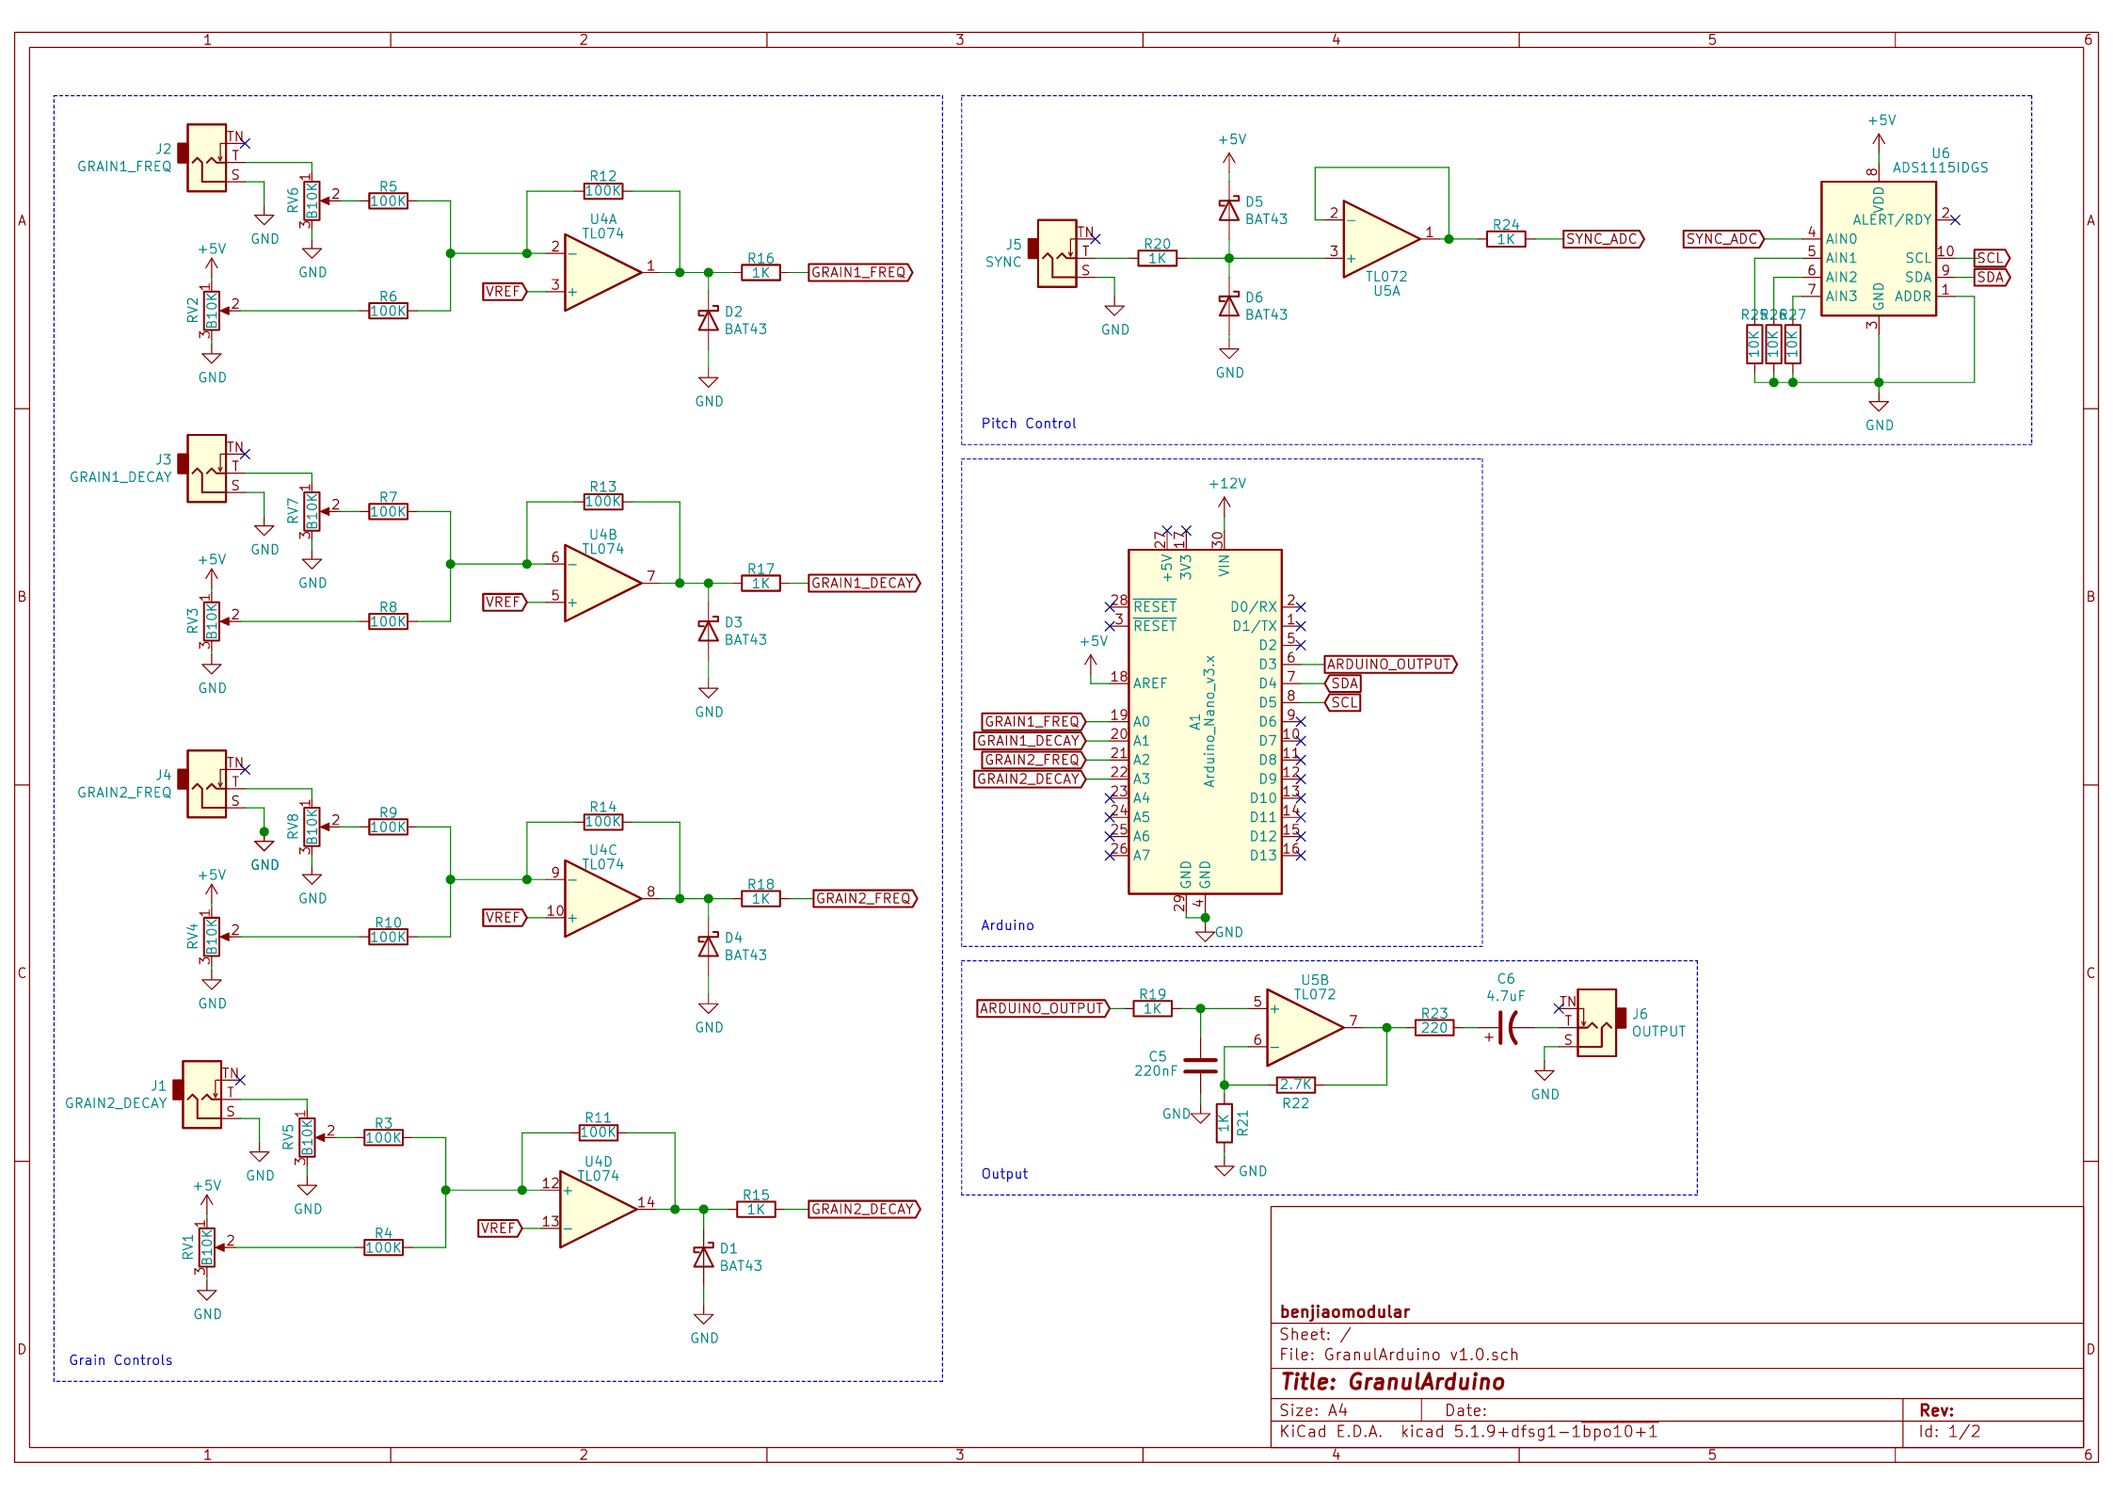
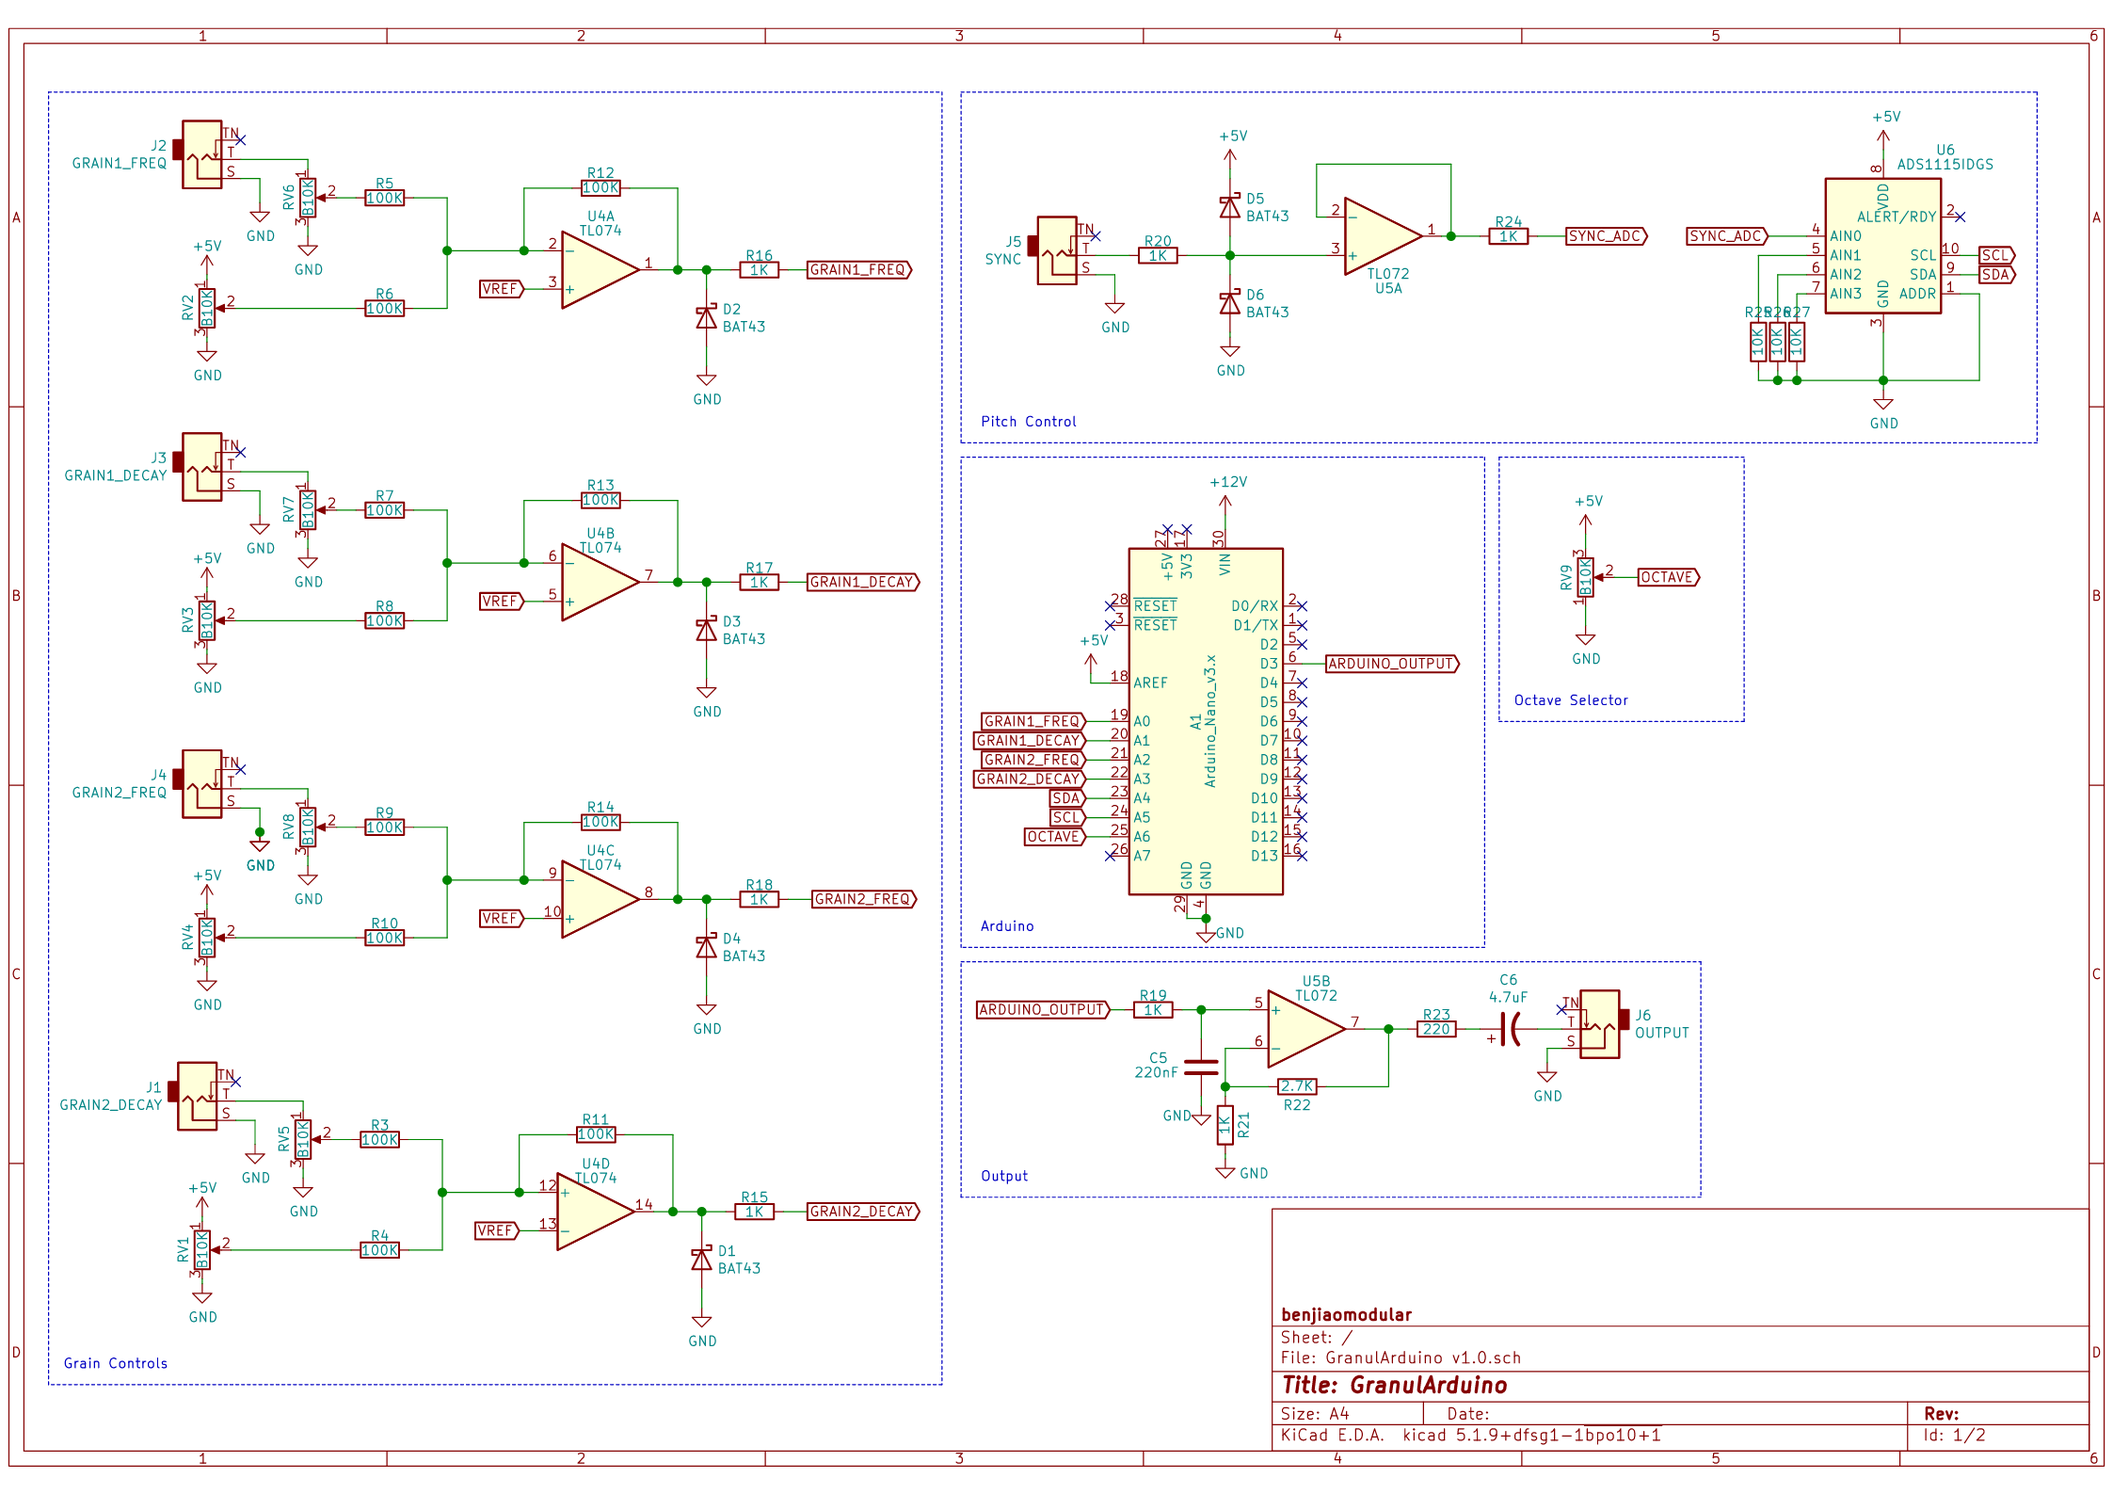
deploy: benjiaomodular/benjiaomodular.com@e577759d6209996895d34208e1d40aa84bdba7a2

diff --git a/post/2022-03-31-granularduino/index.html b/post/2022-03-31-granularduino/index.html
@@ -1,2 +1,2 @@
 <!doctype html><html xmlns=http://www.w3.org/1999/xhtml xml:lang=en-us lang=en-us><head><link href=https://gmpg.org/xfn/11 rel=profile><meta charset=utf-8><meta name=generator content="Hugo 0.83.0"><meta name=viewport content="width=device-width,initial-scale=1"><title>GranulArduino &#183; benjiaomodular</title><meta name=description content="A Graunlar synthesizer voice based on the Auduino project"><meta property="og:title" content="GranulArduino"><meta property="og:description" content="A Graunlar synthesizer voice based on the Auduino project"><meta property="og:type" content="website"><meta property="og:image" content="https://benjiaomodular.com/post/2022-03-31-granularduino/images/GranulArduino1.jpg"><meta property="og:url" content="https://benjiaomodular.com/post/2022-03-31-granularduino/"><link type=text/css rel=stylesheet href=https://benjiaomodular.com/css/print.css media=print><link type=text/css rel=stylesheet href=https://benjiaomodular.com/css/poole.css><link type=text/css rel=stylesheet href=https://benjiaomodular.com/css/syntax.css><link type=text/css rel=stylesheet href=https://benjiaomodular.com/css/hyde.css><link type=text/css rel=stylesheet href=https://benjiaomodular.com/css/main.css><link rel=preconnect href=https://fonts.googleapis.com><link rel=preconnect href=https://fonts.gstatic.com crossorigin><link href="https://fonts.googleapis.com/css2?family=DM+Sans:ital,wght@0,400;0,500;0,700;1,400&display=swap" rel=stylesheet><link href="https://fonts.googleapis.com/css2?family=DM+Sans:ital,wght@0,400;0,500;0,700;1,400&family=Exo+2:wght@700&display=swap" rel=stylesheet><link rel=apple-touch-icon-precomposed sizes=144x144 href=/images/favicon/apple-touch-icon.png><link rel="shortcut icon" href=/images/favicon/favicon.ico><link rel="shortcut icon" type=image/png href=/images/favicon/icon-192x192.png><link rel="shortcut icon" sizes=192x192 href=/images/favicon/icon-192x192.png></head><body><aside class=sidebar><div class="container sidebar-sticky"><div class=sidebar-about><a href=https://benjiaomodular.com/><h1>benjiaomodular</h1></a><p class=lead>My personal Synth DIY notes.</p></div><nav><ul class=sidebar-nav><li><a href=https://benjiaomodular.com/>Modules</a></li><li><a href=https://benjiaomodular.com/about/>About</a></li></ul></nav><ul class=socials-nav><li><a href=https://youtube.com/BenjieJiao target=_blank><img class=socials-nav-img title=Youtube src=/images/icon-yt.png width=30rem height=30rem></a></li><li><a href=https://github.com/benjiaomodular target=_blank><img class=socials-nav-img title=Github src=/images/icon-gh.png width=30rem height=30rem></a></li><li><a href=https://instagram.com/benjiaomodular target=_blank><img class=socials-nav-img title=Instagram src=/images/icon-ig.png width=30rem height=30rem></a></li><li><a href=https://facebook.com/benjiaomodular target=_blank><img class=socials-nav-img title=Facebook src=/images/icon-fb.png width=30rem height=30rem></a></li></ul><p class=sidebar-copyright>&copy; 2022. All rights reserved.</p></div></aside><main class="content container"><div class="single post"><h1 class=title>GranulArduino</h1><time datetime=2022-03-31T00:00:00Z class=post-date>Thu, Mar 31, 2022</time><div class=tag-section><a class=post-tag href=https://benjiaomodular.com/tags/+/-12v/>+/-12v</a>
-<a class=post-tag href=https://benjiaomodular.com/tags/arduino/>arduino</a></div><h2 id=introduction>Introduction</h2><p>This module I based on the Auduino project by <a href=https://code.google.com/archive/p/tinkerit/wikis/Auduino.wiki>tinkerit</a> in 2009 <a href=https://www.notesandvolts.com/2014/07/build-auduino-granular-synth-part-1.html>Notes and Volts</a> in 2014. In this version, I added support for CV inputs on all knobs.</p><p>It&rsquo;s a simple granular synth using grains based on two triangle waves.</p><figure class=article-figure><a href=https://benjiaomodular.com/post/2022-03-31-granularduino/images/GranulArduino-ConceptDrawing.png><img class=article-image src=https://benjiaomodular.com/post/2022-03-31-granularduino/images/GranulArduino-ConceptDrawing.png></a><div class=figure-caption>Concept drawing for GranulArduino. This was before I added an Octave knob.</div></figure><p>This my first build done with the help of <a href=https://www.makerlab-electronics.com/>Makerlab Electronics</a> who sponsored the parts for the build. They are a local electronics shop here in the Philippines who carry Arduinos and 3D printers among a lot of other things.</p><h2 id=build>Build</h2><div class=disclaimer><p><span class=disclaimer-title>Disclaimer:</span> This article is not intended to be a tutorial. It is only my documentation on how I built a synth module for myself.</p><p>I do not have formal training on electronics. Most of the time I decide on things by trial and error. There will probably be better ways of doing things but feel free to build this yourself and get inspiration for your own designs!</p></div><figure class=article-figure><a href=https://benjiaomodular.com/post/2022-03-31-granularduino/images/GranulArduino4.jpg><img class=article-image src=https://benjiaomodular.com/post/2022-03-31-granularduino/images/GranulArduino4.jpg></a></figure><h3 id=bill-of-materials>Bill of materials</h3><table class=bom-table><thead><tr><th>#</th><th>Value</th><th>Type</th><th>Part #</th></tr></thead><tbody><tr><td>1</td><td>Arduino Nano</td><td>Arduino</a></td><td></td></tr><tr><td>5</td><td>100nF</td><td>Capacitor</a></td><td></td></tr><tr><td>2</td><td>100uF</td><td>Capacitor</a></td><td></td></tr><tr><td>2</td><td>220nF</td><td>Capacitor</a></td><td></td></tr><tr><td>1</td><td>4.7uF</td><td>Capacitor</a></td><td></td></tr><tr><td>1</td><td>JST_BUS</td><td>Jack</a></td><td><a href=https://www.thonk.co.uk/shop/3-5mm-jacks/>PJ398SM</a></td></tr><tr><td>1</td><td>JST-XH 1x03</td><td>Socket Connector</a></td><td></td></tr><tr><td>1</td><td>IDC 2x05</td><td>Socket Connector</a></td><td></td></tr><tr><td>14</td><td>100K</td><td>Resistor</a></td><td></td></tr><tr><td>8</td><td>1K</td><td>Resistor</a></td><td></td></tr><tr><td>1</td><td>2.7K</td><td>Resistor</a></td><td></td></tr><tr><td>1</td><td>220</td><td>Resistor</a></td><td></td></tr><tr><td>3</td><td>10K</td><td>Resistor</a></td><td></td></tr><tr><td>3</td><td>10k</td><td>Potentiometer</a></td><td><a href="https://mouser.com/c/?q=317-2090F-10K">RV09AF-40-20K-B10K</a></td></tr><tr><td>3</td><td>L7805</td><td>Regulator</a></td><td><a href="https://mouser.com/c/?q=511-L7805CV">L7805CV</a></td></tr><tr><td>2</td><td>TL074</td><td>OpAmp</a></td><td><a href="https://mouser.com/c/?q=595-TL074BCN">TL074BCN</a></td></tr><tr><td>2</td><td>TL072</td><td>OpAmp</a></td><td><a href="https://mouser.com/c/?q=595-TL072BCP">TL072BCP</a></td></tr><tr><td>1</td><td>ADS1115IDGS</td><td>ADC</a></td><td><a href=https://www.digikey.ph/en/products/detail/adafruit-industries-llc/1085/5761229>ADS1115IDGS</a></td></tr></tbody></table><h3 id=schematics>Schematics</h3><p>Here are my schematics for v1.0. Click on the images for a larger view. You may also downlaod my <a href=https://github.com/benjiaomodular/GranulArduino/releases/tag/v1.0>KiCad files</a> if you want.</p><p><figure class=article-figure><a href=https://benjiaomodular.com/post/2022-03-31-granularduino/images/GranulArduino_v1.0.png><img class=article-image src=https://benjiaomodular.com/post/2022-03-31-granularduino/images/GranulArduino_v1.0.png></a></figure><figure class=article-figure><a href=https://benjiaomodular.com/post/2022-03-31-granularduino/images/GranulArduino_v1.0_Power.png><img class=article-image src=https://benjiaomodular.com/post/2022-03-31-granularduino/images/GranulArduino_v1.0_Power.png></a></figure></p><h3 id=code>Code</h3><p>My Arduino code for this can be downloaded from my <a href=https://github.com/benjiaomodular/GranulArduino>Github page</a>.</p><p>I had to do some input scaling to compensate for my analog circuitry. I can&rsquo;t seem to get the full 0-1024 range. This should do for now, but I plan on fixing this in the next version.</p><h2 id=demos>Demos</h2><div style=position:relative;padding-bottom:56.25%;height:0;overflow:hidden><iframe src=https://www.youtube.com/embed/bsFhqkIOBMc style=position:absolute;top:0;left:0;width:100%;height:100%;border:0 allowfullscreen title="YouTube Video"></iframe></div><h2 id=conclusion>Conclusion</h2><p>There is so much more I can improve in this build.</p><figure class=article-figure><a href=https://benjiaomodular.com/post/2022-03-31-granularduino/images/GranulArduino2.jpg><img class=article-image src=https://benjiaomodular.com/post/2022-03-31-granularduino/images/GranulArduino2.jpg></a></figure><p>Range of CV input can be scaled down to 5V to allow for wider octave control. Usable range of each CV input can be fine tuned.</p><p>I hope to build a more complex granular synth using wav or MP3 files in the future, but I still have so much more to learn before I get there. Till the next module!</p><p>Let me know if you&rsquo;ve built it! DM me on Instagram <a href=https://instagram.com/benjiaomodular>@benjiaomodular</a>.</p></div></main><script async src="https://www.googletagmanager.com/gtag/js?id=G-P9PT1HTQR7"></script><script>var doNotTrack=!1;if(!doNotTrack){window.dataLayer=window.dataLayer||[];function gtag(){dataLayer.push(arguments)}gtag('js',new Date),gtag('config','G-P9PT1HTQR7',{anonymize_ip:!1})}</script></body></html>
+<a class=post-tag href=https://benjiaomodular.com/tags/arduino/>arduino</a></div><h2 id=introduction>Introduction</h2><p>This module I based on the Auduino project by <a href=https://code.google.com/archive/p/tinkerit/wikis/Auduino.wiki>tinkerit</a> in 2009 <a href=https://www.notesandvolts.com/2014/07/build-auduino-granular-synth-part-1.html>Notes and Volts</a> in 2014. In this version, I added support for CV inputs on all knobs.</p><p>It&rsquo;s a simple granular synth using grains based on two triangle waves.</p><figure class=article-figure><a href=https://benjiaomodular.com/post/2022-03-31-granularduino/images/GranulArduino-ConceptDrawing.png><img class=article-image src=https://benjiaomodular.com/post/2022-03-31-granularduino/images/GranulArduino-ConceptDrawing.png></a><div class=figure-caption>Concept drawing for GranulArduino. This was before I added an Octave knob.</div></figure><p>This my first build done with the help of <a href=https://www.makerlab-electronics.com/>Makerlab Electronics</a> who sponsored the parts for the build. They are a local electronics shop here in the Philippines who carry Arduinos and 3D printers among a lot of other things.</p><h2 id=build>Build</h2><div class=disclaimer><p><span class=disclaimer-title>Disclaimer:</span> This article is not intended to be a tutorial. It is only my documentation on how I built a synth module for myself.</p><p>I do not have formal training on electronics. Most of the time I decide on things by trial and error. There will probably be better ways of doing things but feel free to build this yourself and get inspiration for your own designs!</p></div><figure class=article-figure><a href=https://benjiaomodular.com/post/2022-03-31-granularduino/images/GranulArduino4.jpg><img class=article-image src=https://benjiaomodular.com/post/2022-03-31-granularduino/images/GranulArduino4.jpg></a></figure><h3 id=bill-of-materials>Bill of materials</h3><table class=bom-table><thead><tr><th>#</th><th>Value</th><th>Type</th><th>Part #</th></tr></thead><tbody><tr><td>1</td><td>Arduino Nano</td><td>Arduino</a></td><td></td></tr><tr><td>5</td><td>100nF</td><td>Capacitor</a></td><td></td></tr><tr><td>2</td><td>100uF</td><td>Capacitor</a></td><td></td></tr><tr><td>2</td><td>220nF</td><td>Capacitor</a></td><td></td></tr><tr><td>1</td><td>4.7uF</td><td>Capacitor</a></td><td></td></tr><tr><td>1</td><td>JST_BUS</td><td>Jack</a></td><td><a href=https://www.thonk.co.uk/shop/3-5mm-jacks/>PJ398SM</a></td></tr><tr><td>1</td><td>JST-XH 1x03</td><td>Socket Connector</a></td><td></td></tr><tr><td>1</td><td>IDC 2x05</td><td>Socket Connector</a></td><td></td></tr><tr><td>14</td><td>100K</td><td>Resistor</a></td><td></td></tr><tr><td>8</td><td>1K</td><td>Resistor</a></td><td></td></tr><tr><td>1</td><td>2.7K</td><td>Resistor</a></td><td></td></tr><tr><td>1</td><td>220</td><td>Resistor</a></td><td></td></tr><tr><td>3</td><td>10K</td><td>Resistor</a></td><td></td></tr><tr><td>9</td><td>10k</td><td>Potentiometer</a></td><td><a href="https://mouser.com/c/?q=317-2090F-10K">RV09AF-40-20K-B10K</a></td></tr><tr><td>3</td><td>L7805</td><td>Regulator</a></td><td><a href="https://mouser.com/c/?q=511-L7805CV">L7805CV</a></td></tr><tr><td>2</td><td>TL074</td><td>OpAmp</a></td><td><a href="https://mouser.com/c/?q=595-TL074BCN">TL074BCN</a></td></tr><tr><td>2</td><td>TL072</td><td>OpAmp</a></td><td><a href="https://mouser.com/c/?q=595-TL072BCP">TL072BCP</a></td></tr><tr><td>1</td><td>ADS1115IDGS</td><td>ADC</a></td><td><a href=https://www.digikey.ph/en/products/detail/adafruit-industries-llc/1085/5761229>ADS1115IDGS</a></td></tr></tbody></table><h3 id=schematics>Schematics</h3><p>Here are my schematics for v1.0. Click on the images for a larger view. You may also download my <a href=https://github.com/benjiaomodular/GranulArduino/releases/tag/v1.0>KiCad files</a> if you want.</p><p>I&rsquo;d also like to note that most of this was done through trial and error.</p><p><figure class=article-figure><a href=https://benjiaomodular.com/post/2022-03-31-granularduino/images/GranulArduino_v1.0.png><img class=article-image src=https://benjiaomodular.com/post/2022-03-31-granularduino/images/GranulArduino_v1.0.png></a></figure><figure class=article-figure><a href=https://benjiaomodular.com/post/2022-03-31-granularduino/images/GranulArduino_v1.0_Power.png><img class=article-image src=https://benjiaomodular.com/post/2022-03-31-granularduino/images/GranulArduino_v1.0_Power.png></a></figure></p><h3 id=code>Code</h3><p>My Arduino code for this can be downloaded from my <a href=https://github.com/benjiaomodular/GranulArduino>Github page</a>.</p><p>I had to do some input scaling to compensate for my analog circuitry. I can&rsquo;t seem to get the full 0-1024 range. This should do for now, but I plan on fixing this in the next version.</p><h2 id=demos>Demos</h2><div style=position:relative;padding-bottom:56.25%;height:0;overflow:hidden><iframe src=https://www.youtube.com/embed/bsFhqkIOBMc style=position:absolute;top:0;left:0;width:100%;height:100%;border:0 allowfullscreen title="YouTube Video"></iframe></div><h2 id=conclusion>Conclusion</h2><p>There is so much more I can improve in this build.</p><figure class=article-figure><a href=https://benjiaomodular.com/post/2022-03-31-granularduino/images/GranulArduino2.jpg><img class=article-image src=https://benjiaomodular.com/post/2022-03-31-granularduino/images/GranulArduino2.jpg></a></figure><p>Range of CV input can be scaled down to 5V to allow for wider octave control. Usable range of each CV input can be fine tuned.</p><p>I hope to build a more complex granular synth using wav or MP3 files in the future, but I still have so much more to learn before I get there. Till the next module!</p><p>Let me know if you&rsquo;ve built it! DM me on Instagram <a href=https://instagram.com/benjiaomodular>@benjiaomodular</a>.</p></div></main><script async src="https://www.googletagmanager.com/gtag/js?id=G-P9PT1HTQR7"></script><script>var doNotTrack=!1;if(!doNotTrack){window.dataLayer=window.dataLayer||[];function gtag(){dataLayer.push(arguments)}gtag('js',new Date),gtag('config','G-P9PT1HTQR7',{anonymize_ip:!1})}</script></body></html>
